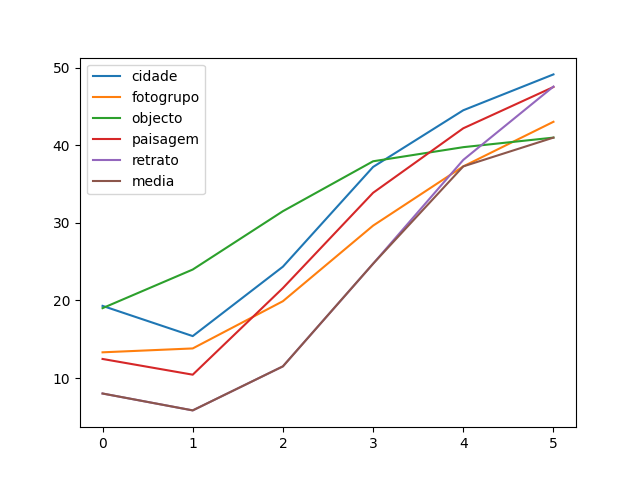
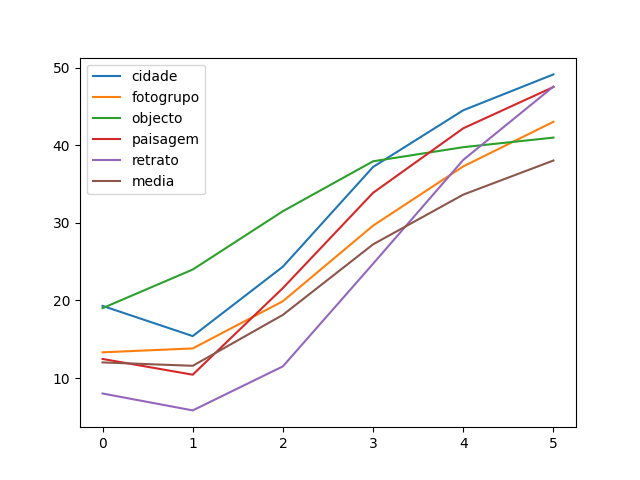
10/05/21

diff --git a/brisque2.py b/brisque2.py
@@ -74,8 +74,10 @@ def cvbrisque(imgArr):
     return imgArr
 
 def doMedia(arr,i):
-    for obj in arr:
-        obj = obj/i
+    print(arr)
+    for idx,obj in enumerate(arr):
+        arr[idx] = obj/i
+    print(arr)
     return arr
 
 def testBrisque(outputPath):
@@ -122,6 +124,7 @@ def testBrisque(outputPath):
             "group": d["group"],
             "intensity": d["image_id"].split(".jp")[0]
             } for d in images if d["type"] == tt]:
+                print(t["image_id"])
                 index = int(int(t["intensity"])/2)
                 if t["group"] == folders[0]:
                     i = i + 1
@@ -134,7 +137,7 @@ def testBrisque(outputPath):
                     paisagem[index] = t["brisque"]
                 if t["group"] == folders[4]:
                     retrato[index] = t["brisque"]
-                media[index] = t["brisque"]
+                media[index] = media[index] + t["brisque"]
         media = doMedia(media, i)
         c1, = plt.plot(cidade, label=folders[0])
         f1, = plt.plot(fotogrupo, label=folders[1])
@@ -147,5 +150,5 @@ def testBrisque(outputPath):
         plt.savefig('%s.png'%(tt))
         plt.close("all")
     
-testBrisque(path.abspath("./Photos/TecnicalChangedByTheme/Result"))
+# testBrisque(path.abspath("./Photos/TecnicalChangedByTheme/Result"))
 

diff --git a/main.py b/main.py
@@ -10,7 +10,7 @@ from myresize import resize2
 from clustering import groupImages, kerasClustering
 import utils as util
 import time
-import visonApi as visonApi
+import visonApi
 
 import brisque2 as bq
 
@@ -65,11 +65,13 @@ def mainNimaThreads(path):
 
 
 def mainNima(model, string, string2order, path):
+    print(path)
     # Get images path & generate slideshow information
     imgF, tF, images = util.createSlideShow(True,path)
     # Get images for Nima
     images = nima.loadAndPreprocessImage(images)
     images, w, h = sl.loadCV2Img(images,True,25)
+    print("Here main\n")
     # Run Nima
     print("Get image quality")
     i = 0
@@ -95,10 +97,10 @@ def mainNima(model, string, string2order, path):
     totalNumberOfFrames = nImages * (tF+imgF)-(tF*2)
     images, w, h = sl.loadCV2Img(images)
     images = resize2(images, w, h)
-    print("Image clustering:")
-    kerasClustering(images,path,kerasOutput)
+    #print("Image clustering:")
+    #kerasClustering(images,path,kerasOutput)
     print("Image object identification:")
-    visionApi.identifyObjects(path,images)
+    visonApi.identifyObjects(path,images)
     # Generate slideshow
     sl.write_video(outputPath + "/out.mp4",
                    images[:nImages], w, h, totalNumberOfFrames, fps, tF, imgF)

diff --git a/visonApi.py b/visonApi.py
@@ -14,7 +14,7 @@ def localize_objects(path):
 
     objects = client.object_localization(
         image=image).localized_object_annotations
-    return [o.name for o in objects]
+    return list(set([o.name for o in objects]))
 
     '''print('Number of objects found: {}'.format(len(objects)))
     for object_ in objects:
